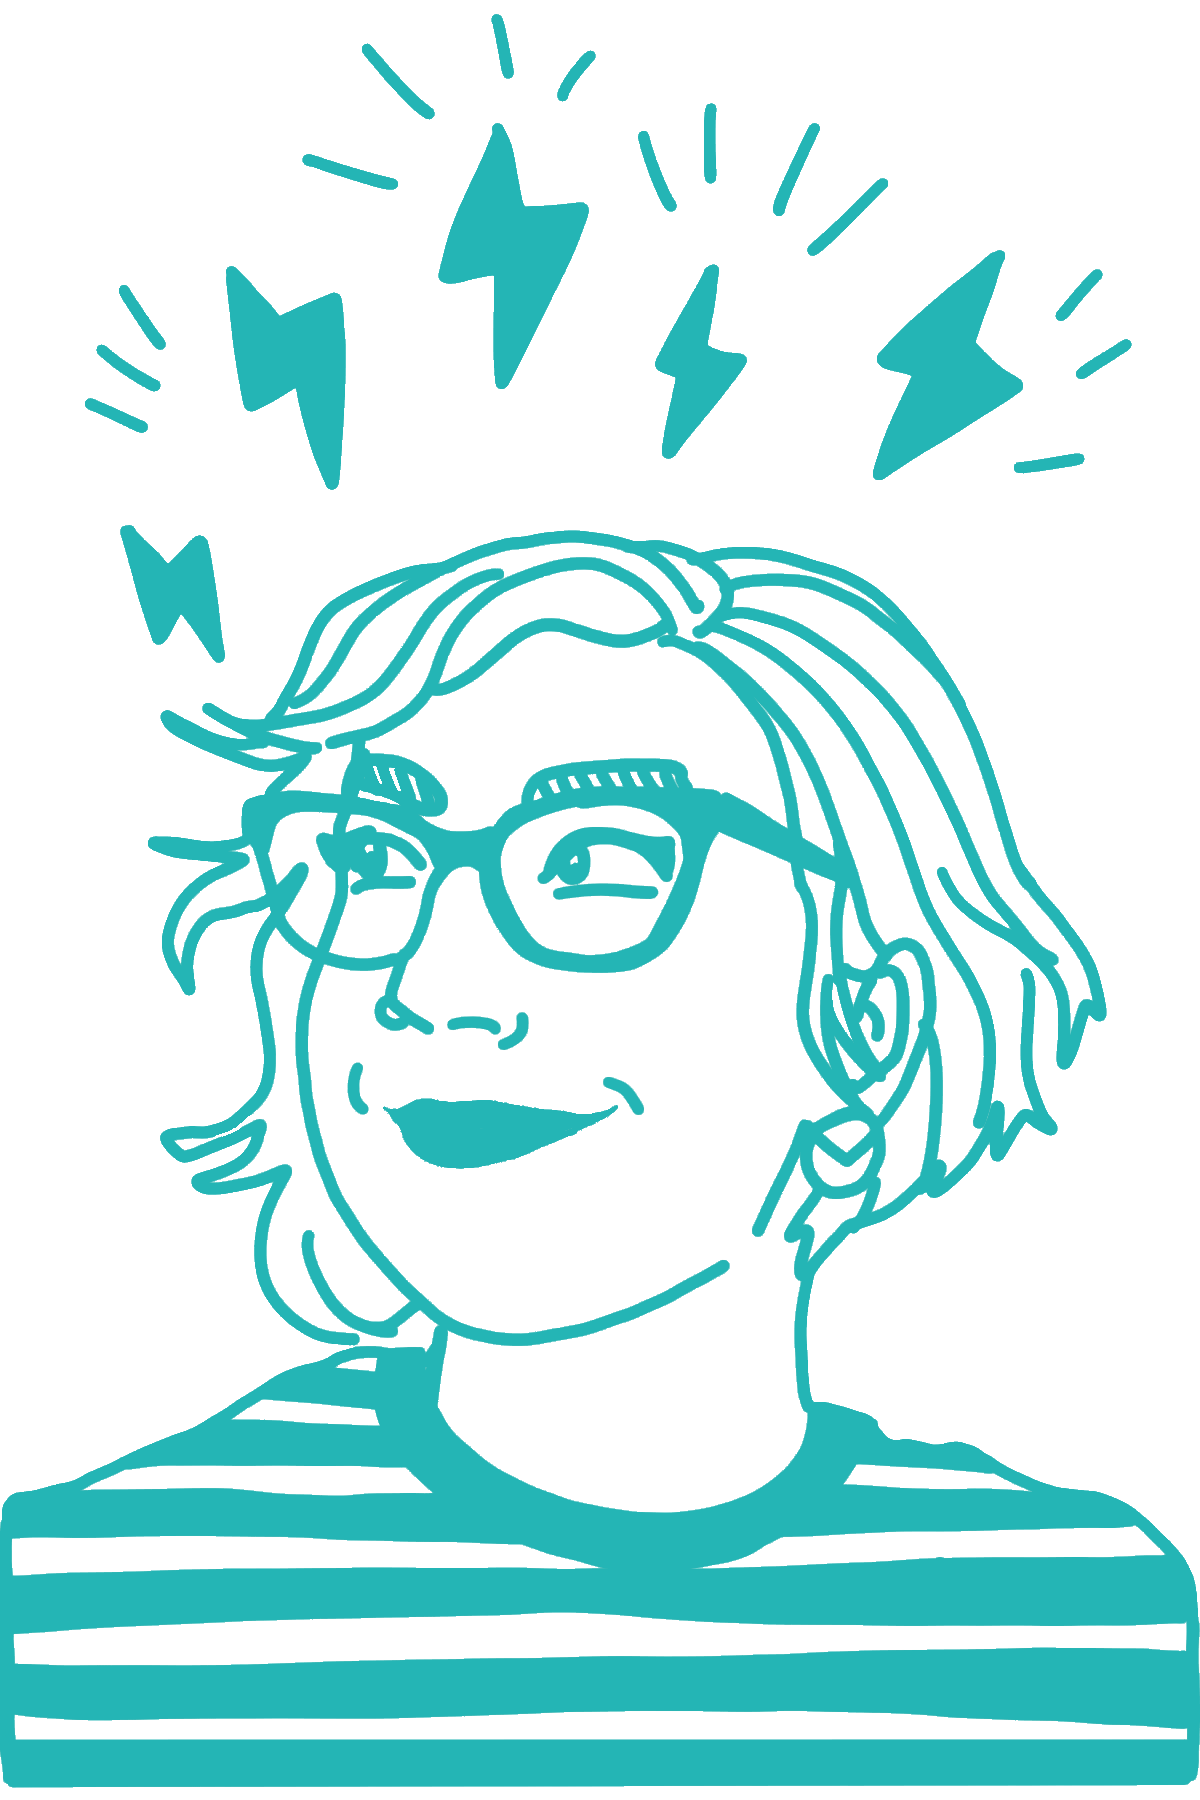
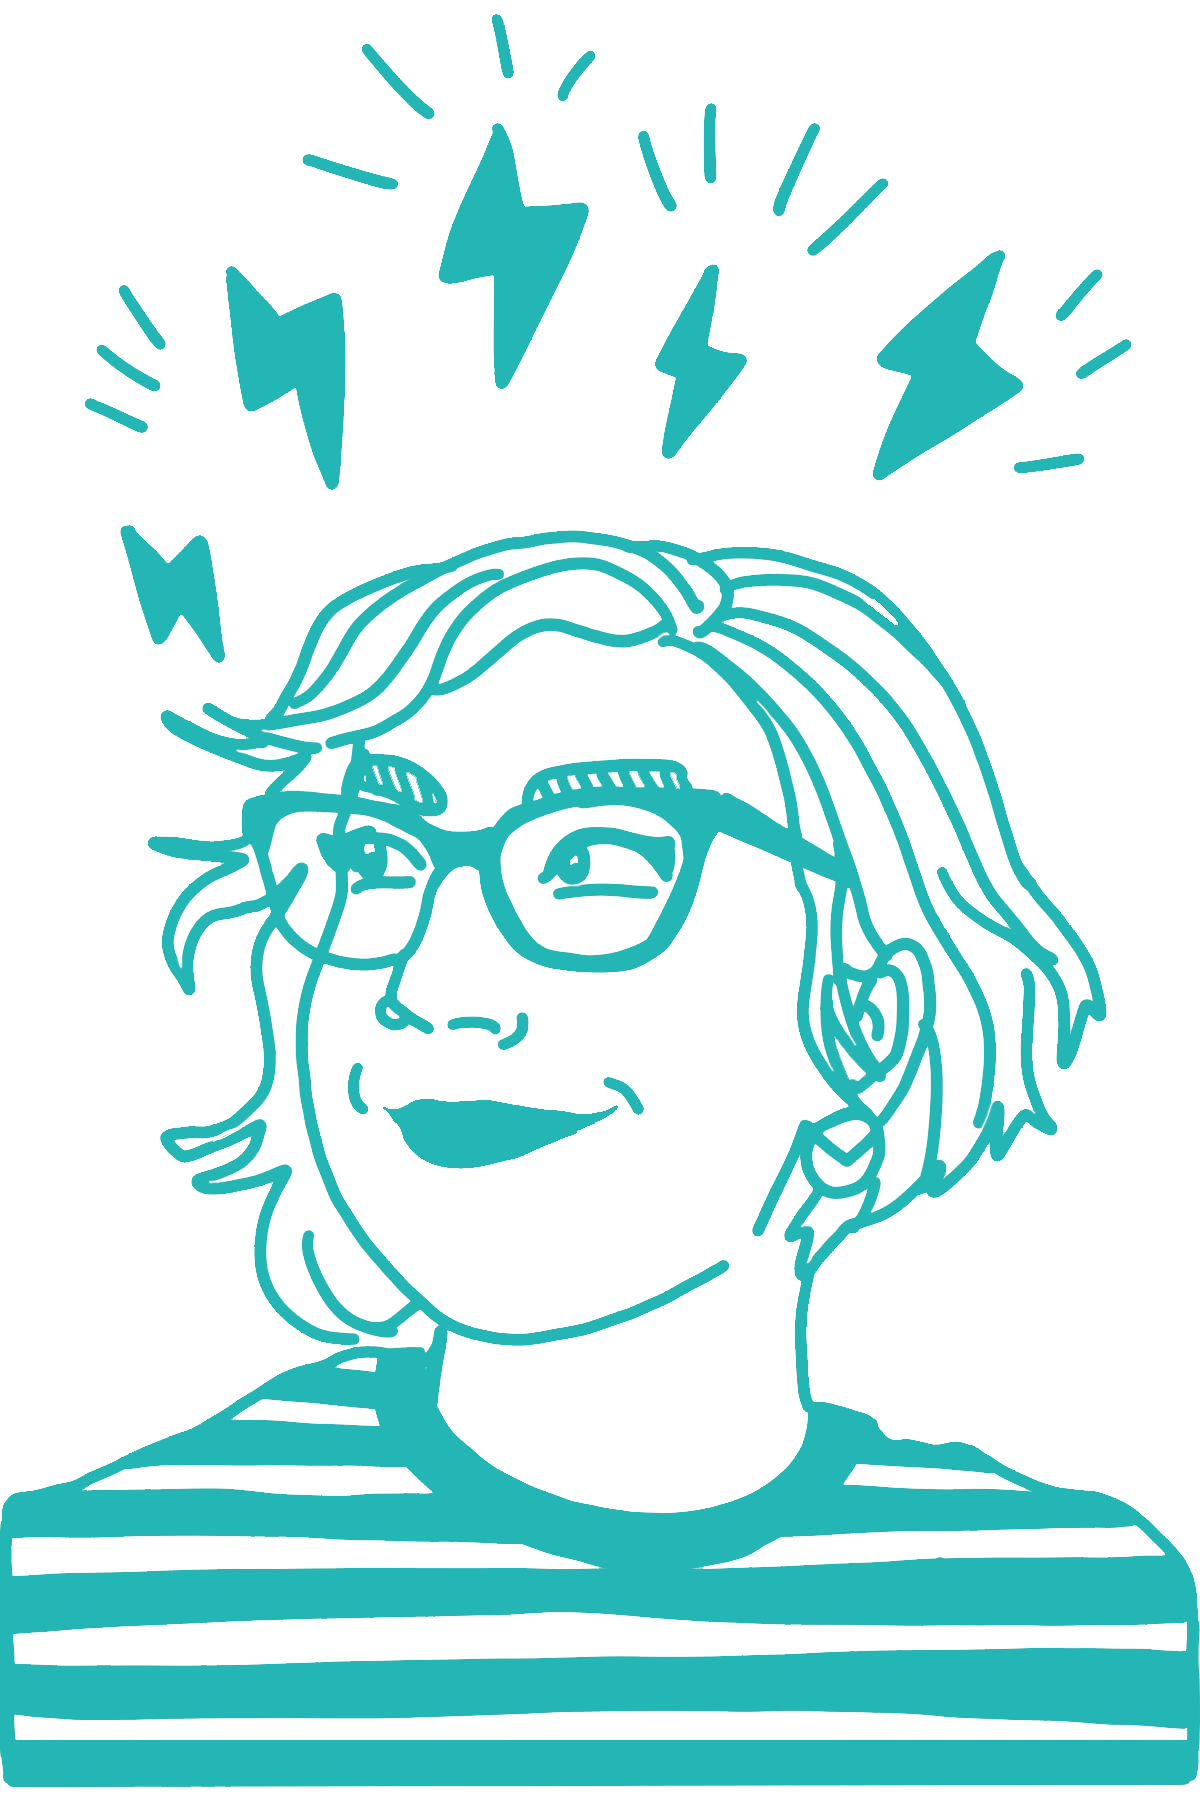
Update images with smushed and resized images

Changed region(s): [[0.7092, 0.3111, 0.74, 0.3422], [0.6783, 0.56, 0.7092, 0.5911]]

diff --git a/casestudy-packagedesign.html b/casestudy-packagedesign.html
@@ -64,17 +64,17 @@ meta: The Olivia Burton package design project involved the development of a pac
   <div class="grid push-2">
     <div class="unit unit-xs-1 unit-s-1 unit-m-1-3 unit-l-1-3 island-1-8">
       <div class="embed embed-1by1">
-        <img class="embed-item" src="images/ob-construction01.png" alt="Image of the construction process for the packaging">
+        <img class="embed-item" src="images/ob-construction01.jpg" alt="Image of the construction process for the packaging">
       </div>
     </div>
     <div class="unit unit-xs-1 unit-s-1 unit-m-1-3 unit-l-1-3 island-1-8">
       <div class="embed embed-1by1">
-        <img class="embed-item" src="images/ob-construction02.png" alt="Image of the construction process for the packaging">
+        <img class="embed-item" src="images/ob-construction02.jpg" alt="Image of the construction process for the packaging">
       </div>
     </div>
     <div class="unit unit-xs-1 unit-s-1 unit-m-1-3 unit-l-1-3 island-1-8">
       <div class="embed embed-1by1">
-        <img class="embed-item" src="images/ob-construction03.png" alt="Image of the construction process for the packaging">
+        <img class="embed-item" src="images/ob-construction03.jpg" alt="Image of the construction process for the packaging">
       </div>
     </div>
   </div>

diff --git a/casestudy-fireface.html b/casestudy-fireface.html
@@ -16,7 +16,7 @@ meta: The Fire Face Refresh case study demonstrates the process of creating a ne
     </div>
     <div class="unit unit-xs-1 unit-s-1 unit-m-1-2 unit-l-1-2 gutter-2">
       <div class="embed embed-1by1">
-        <img class="embed-item img-flex" src="images/fireface-new-logo.png" alt="Image of the new Fire Face logo">
+        <img class="embed-item img-flex" src="images/fireface-new-logo.jpg" alt="Image of the new Fire Face logo">
       </div>
     </div>
   </div>
@@ -25,7 +25,7 @@ meta: The Fire Face Refresh case study demonstrates the process of creating a ne
   <h3 class="push-2"><u>Production</u></h3>
   <div class="push-2">
     <div class="embed embed-24by10">
-      <img src="images/fireface-logo-transition.png" class="img-flex embed-item"alt="Image of the transition from original to new logo">
+      <img src="images/fireface-logo-transition.jpg" class="img-flex embed-item"alt="Image of the transition from original to new logo">
     </div>
   </div>
   <div class="grid">
